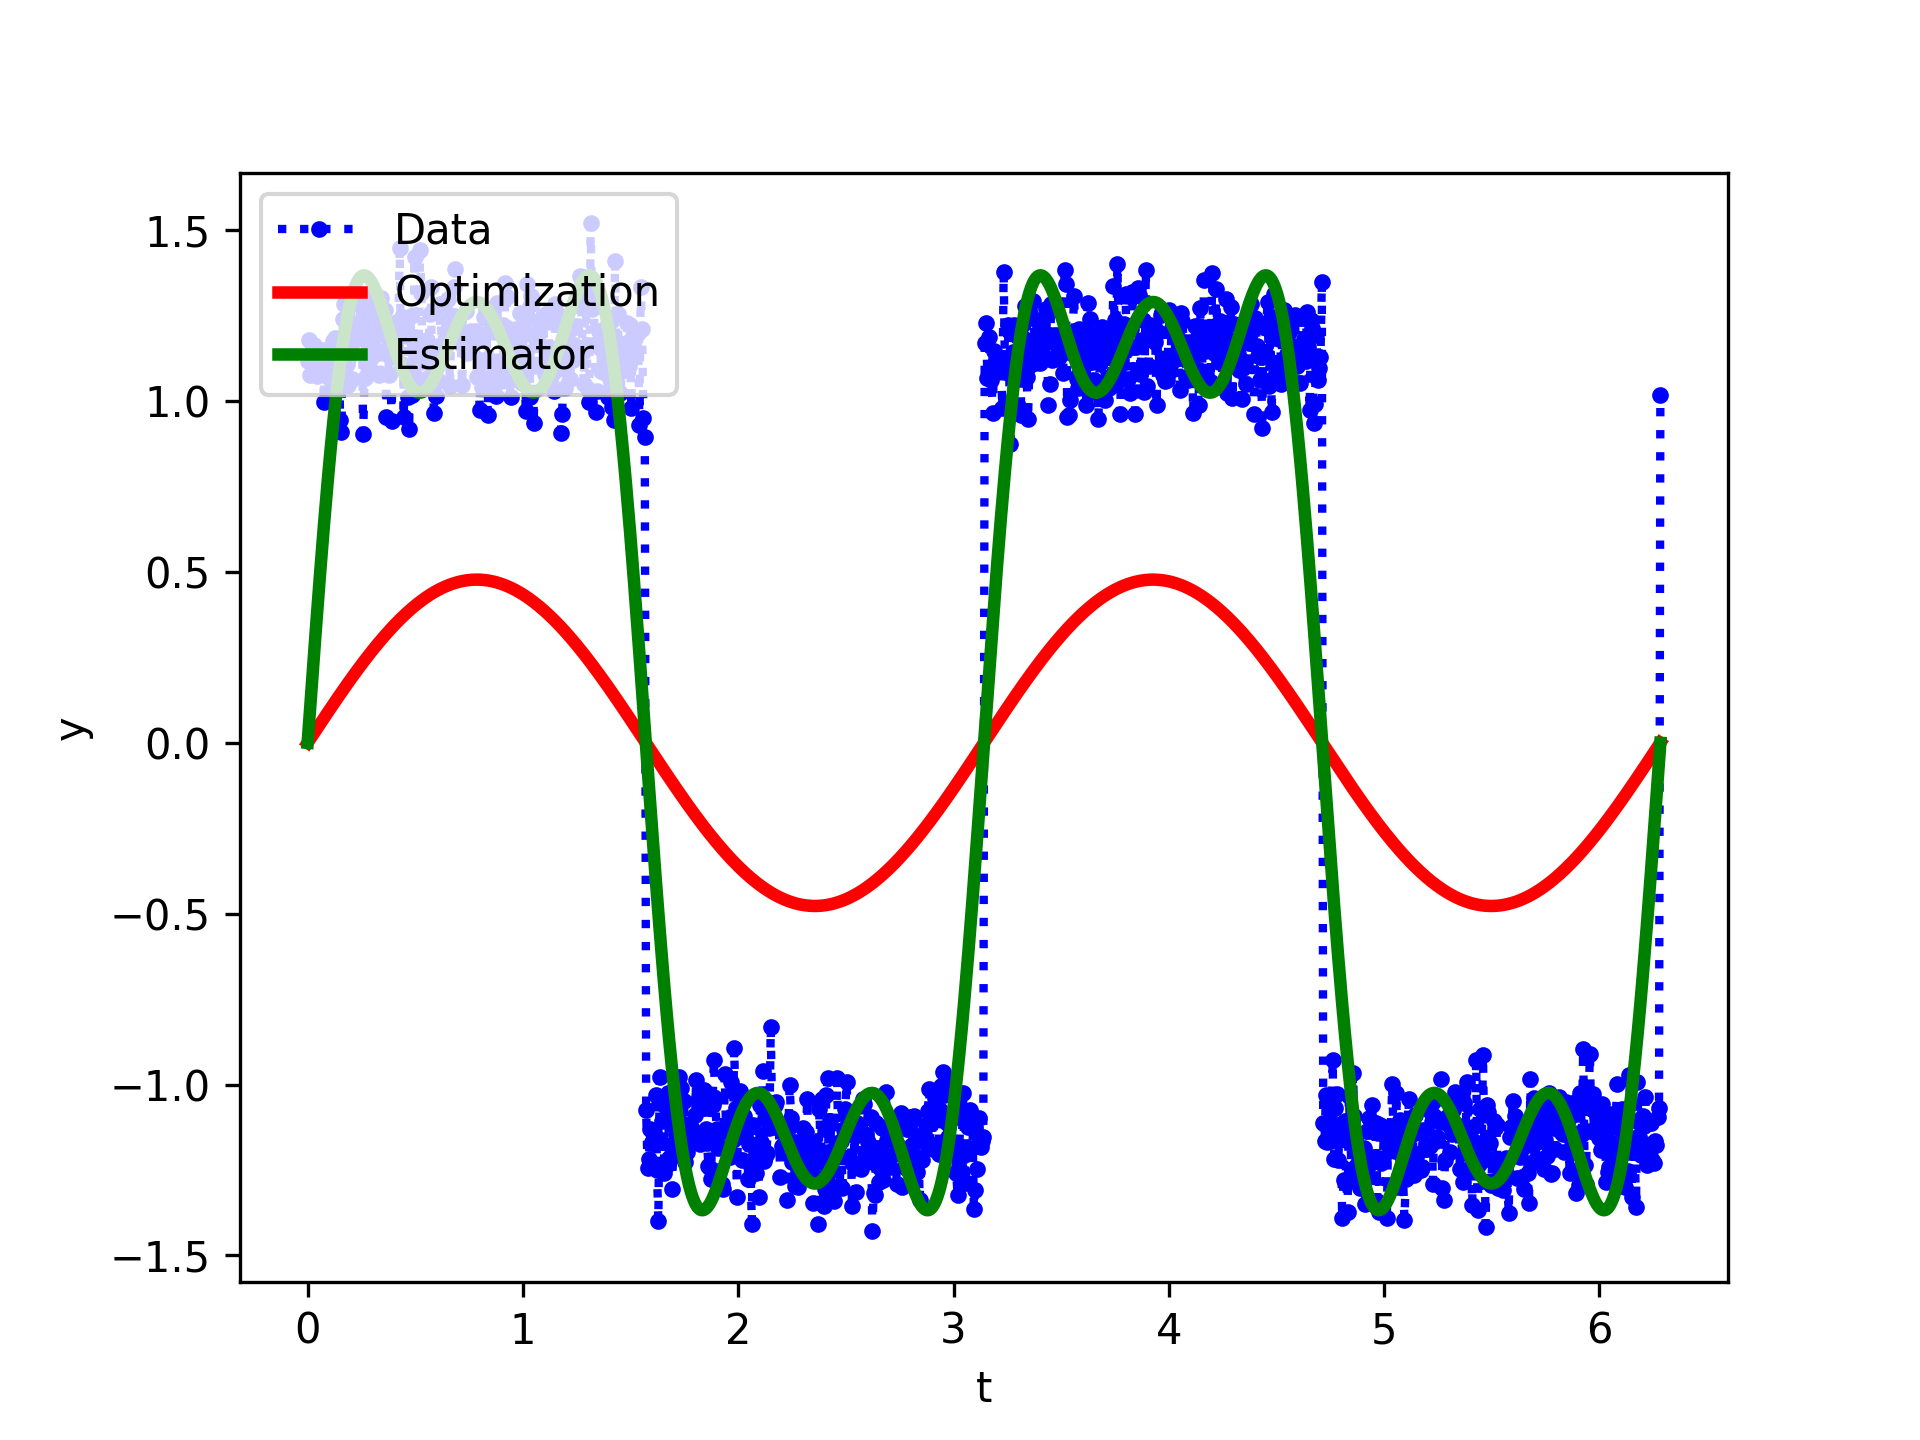
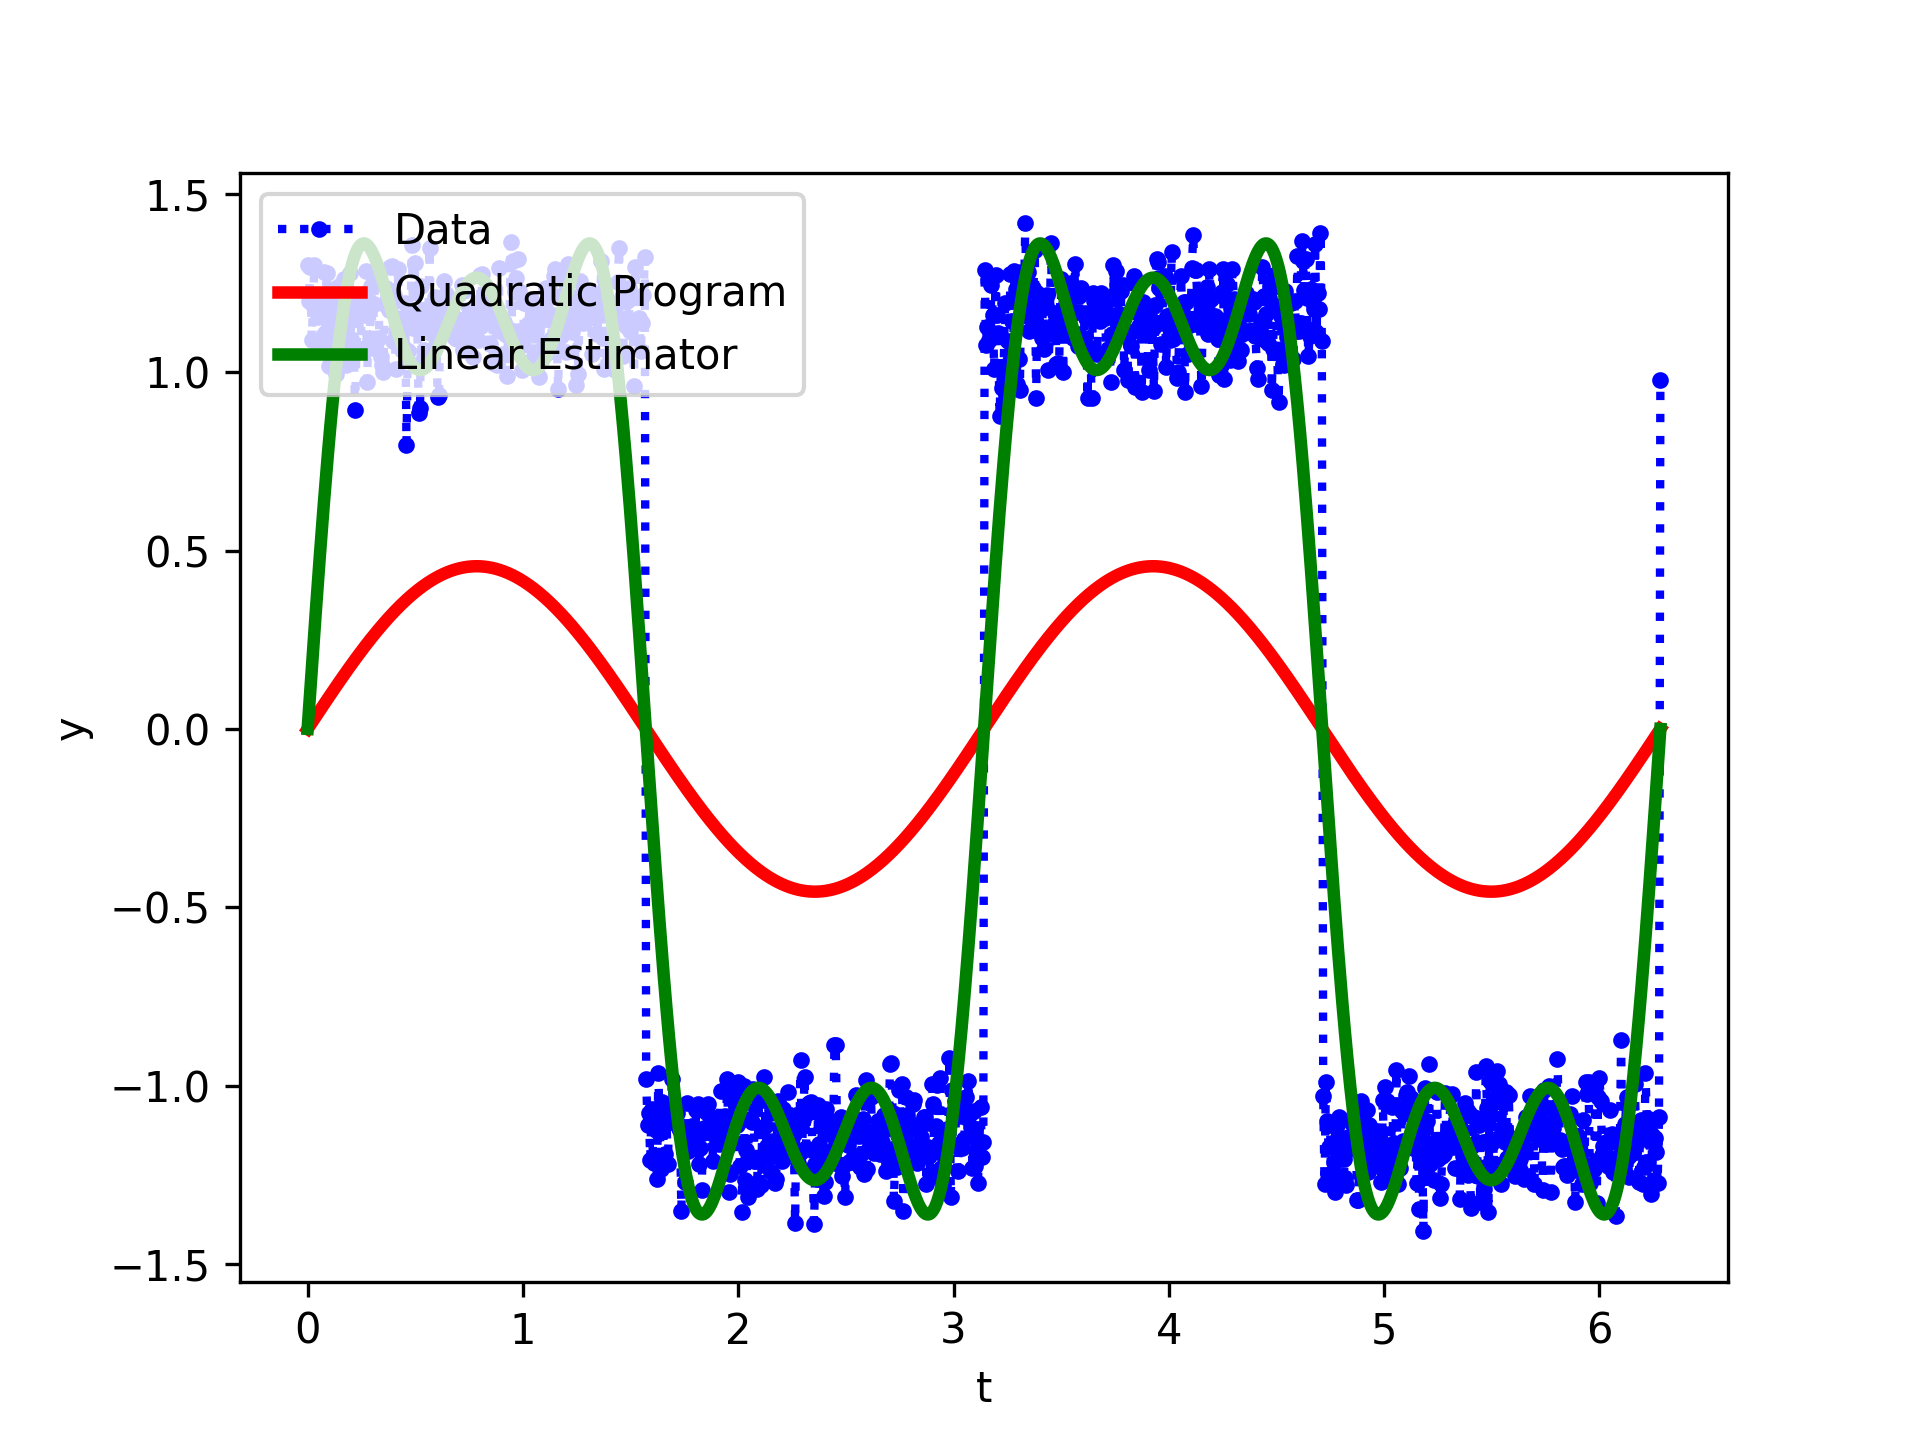
Working on HW 3

diff --git a/homework_3/problem_1.py b/homework_3/problem_1.py
@@ -1,0 +1,38 @@
+import numpy as np
+
+
+def main(argv=None):
+    transition_matrix = np.array(
+        [
+            [0, 1, 0, 0, 0],
+            [0, 0, 1, 0, 0],
+            [1/2, 0, 0, 1/2, 0],
+            [0, 0, 0, 0, 1],
+            [0, 0, 1, 0, 0],
+        ],
+        dtype=np.float64,
+    )
+
+    distribution = np.array(
+        [1/6, 1/6, 1/3, 1/6, 1/6],
+        dtype=np.float64,
+    )
+
+    initial_distribution = np.array(
+        [1/2, 0, 0, 1/2, 0],
+        dtype=np.float64,
+    )
+
+    n = 10000
+    states = []
+    for i in range(n):
+        state = initial_distribution @ np.linalg.matrix_power(transition_matrix, i)
+        states.append(state)
+
+    states = np.asarray(states)
+    stable_distribution = np.mean(states, axis=0)
+    print(f"Steady state distribution of {n} samples: {stable_distribution}")
+
+
+if __name__ == "__main__":
+    main()

diff --git a/homework_3/problem_2.py b/homework_3/problem_2.py
@@ -1,0 +1,38 @@
+import numpy as np
+
+
+def main(argv=None):
+    transition_matrix = np.array(
+        [
+            [0, 1, 0, 0],
+            [1/3, 0, 2/3, 0],
+            [0, 0, 0, 1],
+            [1/2, 0, 1/2, 0],
+        ],
+        dtype=np.float64,
+    )
+
+    # initial_distribution = np.array(
+    #     [1/4, 1/4, 1/4, 1/4],
+    #     dtype=np.float64,
+    # )
+
+    # Period = 2?
+    initial_distribution = np.array(
+        [1, 0, 0, 0],
+        dtype=np.float64,
+    )
+
+    n = 10000
+    states = []
+    for i in range(n):
+        state = initial_distribution @ np.linalg.matrix_power(transition_matrix, i)
+        states.append(state)
+
+    states = np.asarray(states)
+    stable_distribution = np.mean(states, axis=0)
+    print(f"Steady state distribution of {n} samples: {stable_distribution}")
+
+
+if __name__ == "__main__":
+    main()

diff --git a/homework_2/problem_3.py b/homework_2/problem_3.py
@@ -57,9 +57,9 @@ def main(argv=None):
 
     # Set Initial Guess:
     # Informed Guess:
-    prog.SetInitialGuess(x, np.array([1.46, 0.49, 0.29, a[0], a[1], a[2]]))
+    # prog.SetInitialGuess(x, np.array([1.46, 0.49, 0.29, a[0], a[1], a[2]]))
     # Random Guess:
-    # prog.SetInitialGuess(x, np.random.rand(x.shape[0]))
+    prog.SetInitialGuess(x, np.random.rand(x.shape[0]))
 
     # Solve Optimization Problem:
     results = Solve(prog)

diff --git a/homework_2/problem_2.py b/homework_2/problem_2.py
@@ -143,7 +143,7 @@ def main(argv=None):
     ax.plot(x_data, estimator_output, 'g-', linewidth=3)
     ax.set_xlabel('t')
     ax.set_ylabel('y')
-    ax.legend(['Data', 'Optimization', 'Estimator'], loc='upper left')
+    ax.legend(['Data', 'Quadratic Program', 'Linear Estimator'], loc='upper left')
     figure_name = os.path.join(figure_path, 'problem_2_comparison.png')
     fig.savefig(figure_name, dpi=300)
 

diff --git a/homework_3/problem_3.py b/homework_3/problem_3.py
@@ -1,0 +1,23 @@
+import numpy as np
+
+
+def main(argv=None):
+    transition_matrix = np.array(
+        [
+            [1/3, 2/3],
+            [1, 0]
+        ],
+        dtype=np.float64,
+    )
+
+    n = 10000
+    P = []
+    for i in range(n):
+        P_m = np.linalg.matrix_power(transition_matrix, i)
+        P.append(P_m)
+
+    P = np.asarray(P)
+
+
+if __name__ == "__main__":
+    main()
